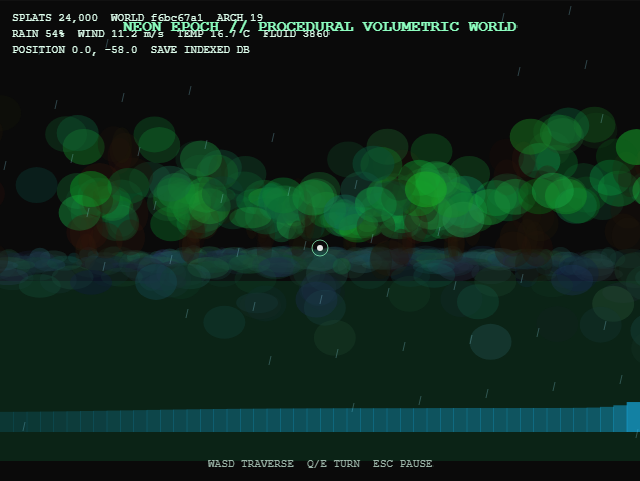
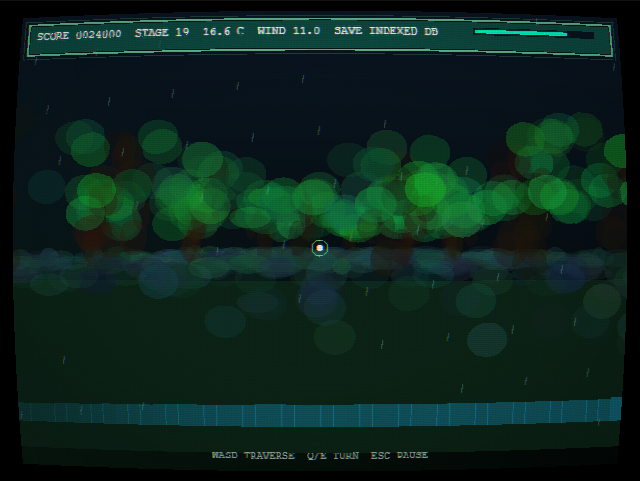
Prepare BiosSystem Neon Arcade v2.1.0 release (#21)
* Refresh Overdrive gameplay gallery

* Prepare v2.1.0 release

* Stabilize catalog scene activation checks

diff --git a/build/ReleaseConfiguration.test.ts b/build/ReleaseConfiguration.test.ts
@@ -10,7 +10,7 @@ describe('release configuration', () => {
     const tauriVersion = (JSON.parse(read('src-tauri/tauri.conf.json')) as { version: string }).version;
     const cargoVersion = read('src-tauri/Cargo.toml').match(/^version = "([^"]+)"/m)?.[1];
     const cargoLockVersion = read('src-tauri/Cargo.lock').match(/name = "biossystem-neon-arcade"\r?\nversion = "([^"]+)"/)?.[1];
-    expect([packageVersion, lock.version, lock.packages[''].version, tauriVersion, cargoVersion, cargoLockVersion]).toEqual(['2.0.0', '2.0.0', '2.0.0', '2.0.0', '2.0.0', '2.0.0']);
+    expect([packageVersion, lock.version, lock.packages[''].version, tauriVersion, cargoVersion, cargoLockVersion]).toEqual(['2.1.0', '2.1.0', '2.1.0', '2.1.0', '2.1.0', '2.1.0']);
     expect(read('CHANGELOG.md')).toContain('## [2.0.0] - 2026-08-26');
   });
 

diff --git a/tests/regression/game-catalog.spec.ts b/tests/regression/game-catalog.spec.ts
@@ -20,7 +20,7 @@ test('launch every registered arcade scene without runtime errors', async ({ pag
     await launchFromLobby(page, index);
     await expect.poll(() => page.evaluate(key => {
       return (window as typeof window & { game: { scene: { isActive(key: string): boolean } } }).game.scene.isActive(key);
-    }, scene), { timeout: 10000, message: `Launch ${scene}` }).toBe(true);
+    }, scene), { timeout: 20000, message: `Launch ${scene}` }).toBe(true);
     await page.waitForTimeout(80);
   }
 

diff --git a/docs/ROADMAP.md b/docs/ROADMAP.md
@@ -1,8 +1,8 @@
 # BiosSystem Neon Arcade Roadmap
 
-## v2.1.0 development cycle
+## v2.2.0 development cycle
 
-Use `master` as the protected integration target. Create focused branches with the `feat/v2.1-<system>` or `fix/v2.1-<system>` pattern. Preserve the v2.0.0 release commit as the performance and behavior baseline.
+Use `master` as the protected integration target. Create focused branches with the `feat/v2.2-<system>` or `fix/v2.2-<system>` pattern. Preserve the v2.1.0 release commit as the performance and behavior baseline.
 
 ## Completed milestone
 
@@ -21,14 +21,21 @@ Use `master` as the protected integration target. Create focused branches with t
 - Boundary: Preserve fixed-step game logic, hitboxes, scene clocks, replay timing, CPU particle fallback, and the current no-external-asset policy
 - Verification: 290 Vitest tests across 100 files, 57 Chromium regressions, 6 Firefox and WebKit smoke checks, locked Cargo tests, and a 1,856,795-byte production output
 
-## Active milestone
+## Completed milestone
 
 - Workstream: P1 unified controller input and optional WebHID
 - Branch: `feat/v2.1-unified-input-webhid`
-- Status: Verified and ready for review
+- Status: Merged and released in v2.1.0
 - Scope: Controller fingerprint profiles, radial and scaled-radial calibration, trigger thresholds, conflict-free bindings, generated live calibration UI, hot-plug pause recovery, and explicit WebHID report transport
 - Boundary: Retain the standard Gamepad API as the default offline input path. Require a user gesture for WebHID access and preserve keyboard, touch, replay, multiplayer, and legacy-scene input contracts
 - Verification: 295 Vitest tests across 102 files, 58 Chromium regressions, 6 Firefox and WebKit smoke checks, locked Cargo tests, and the standard repository production baseline
+
+## Active milestone
+
+- Workstream: v2.2 discovery and baseline refresh
+- Branch: `master`
+- Status: Ready
+- Scope: Reconfirm representative scene performance, select the next isolated cabinet or audio-scheduler workstream, and retain the v2.1.0 controller and visual contracts
 
 ## Prioritized engineering queue
 
@@ -49,7 +56,7 @@ Use `master` as the protected integration target. Create focused branches with t
 4. Implement controller profile persistence, calibration, hot-plug recovery, and the optional WebHID report transport before adding new cabinets.
 5. Add each new cabinet as an isolated scene milestone with its own deterministic rule module.
 6. Optimize the audio scheduler only after collecting baseline underrun and allocation evidence.
-7. Run the complete release matrix and document migration notes before cutting v2.1.0.
+7. Run the complete release matrix and document migration notes before cutting v2.1.0. Completed with the v2.1.0 release.
 
 ## Release requirements
 

diff --git a/README.md b/README.md
@@ -13,21 +13,21 @@
 Capture every image below directly from the current production build. Show procedural runtime graphics only, with no mockups, imported ROM art, or third-party game assets.
 
 <p align="center">
-  <img src="docs/images/screenshots/lobby.png" alt="BiosSystem Neon Arcade live game-selection lobby" width="800">
+  <img src="docs/images/screenshots/lobby.png" alt="BiosSystem Neon Arcade lobby with the 2026 Overdrive presentation enabled" width="800">
 </p>
 <p align="center"><sub>Browse the complete 27-entry cabinet catalog from the live BiosSystem Neon Arcade lobby.</sub></p>
 
 <table>
   <tr>
-    <td width="50%" align="center"><img src="docs/images/screenshots/neon-vector.png" alt="Live Neon Vector gameplay with procedural asteroids"><br><sub>Neon Vector - procedural asteroid combat</sub></td>
-    <td width="50%" align="center"><img src="docs/images/screenshots/tetris-pulse.png" alt="Live Tetris Pulse gameplay"><br><sub>Tetris Pulse - classic grid play</sub></td>
+    <td width="50%" align="center"><img src="docs/images/screenshots/neon-vector.png" alt="Neon Vector running with Overdrive glow, scanlines, and procedural asteroid combat"><br><sub>Neon Vector - Overdrive vector combat</sub></td>
+    <td width="50%" align="center"><img src="docs/images/screenshots/tetris-pulse.png" alt="Tetris Pulse with crisp pixel blocks in the Overdrive CRT presentation"><br><sub>Tetris Pulse - crisp grid play</sub></td>
   </tr>
   <tr>
-    <td width="50%" align="center"><img src="docs/images/screenshots/neon-cyber-caster.png" alt="Live Neon Cyber-Caster raycasting gameplay"><br><sub>Neon Cyber-Caster - generated DDA dungeon</sub></td>
-    <td width="50%" align="center"><img src="docs/images/screenshots/neon-danmaku.png" alt="Live Neon Danmaku projectile pattern"><br><sub>Neon Danmaku - pooled projectile simulation</sub></td>
+    <td width="50%" align="center"><img src="docs/images/screenshots/neon-cyber-caster.png" alt="Neon Cyber-Caster generated DDA dungeon under the Overdrive display pipeline"><br><sub>Neon Cyber-Caster - generated DDA dungeon</sub></td>
+    <td width="50%" align="center"><img src="docs/images/screenshots/neon-danmaku.png" alt="Neon Danmaku with dense pooled projectiles and Overdrive glow"><br><sub>Neon Danmaku - projectile pattern combat</sub></td>
   </tr>
   <tr>
-    <td colspan="2" align="center"><img src="docs/images/screenshots/neon-epoch.png" alt="Live Neon Epoch procedural volumetric world" width="640"><br><sub>Neon Epoch - procedural volumetric world</sub></td>
+    <td colspan="2" align="center"><img src="docs/images/screenshots/neon-epoch.png" alt="Neon Epoch procedural world rendered through the 2026 Overdrive pipeline" width="640"><br><sub>Neon Epoch - procedural world and Overdrive lighting</sub></td>
   </tr>
 </table>
 

diff --git a/CHANGELOG.md b/CHANGELOG.md
@@ -1,5 +1,7 @@
 ## [Unreleased]
 
+## [v2.1.0] - 2026-08-29
+
 ### Added
 - Add controller fingerprint profiles, scaled-radial and radial stick calibration, trigger thresholds, conflict-free button remapping, live calibration UI, hot-plug recovery, and explicit WebHID report transport.
 - Add persisted Classic 1980s and 2026 Overdrive visual modes with generated GPU spark particles, a bounded per-scene light pool, selective effect glow, camera trauma, and display-only hit-stop while preserving deterministic gameplay.
